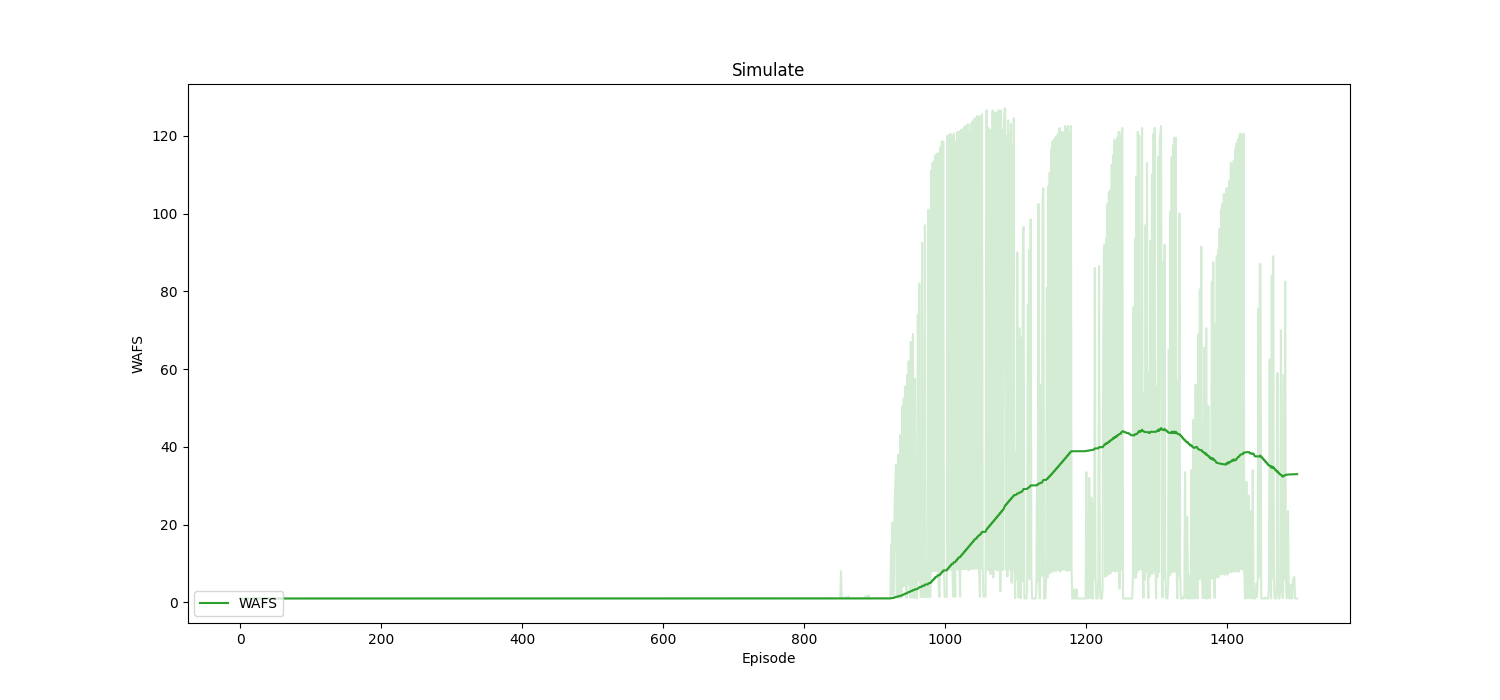
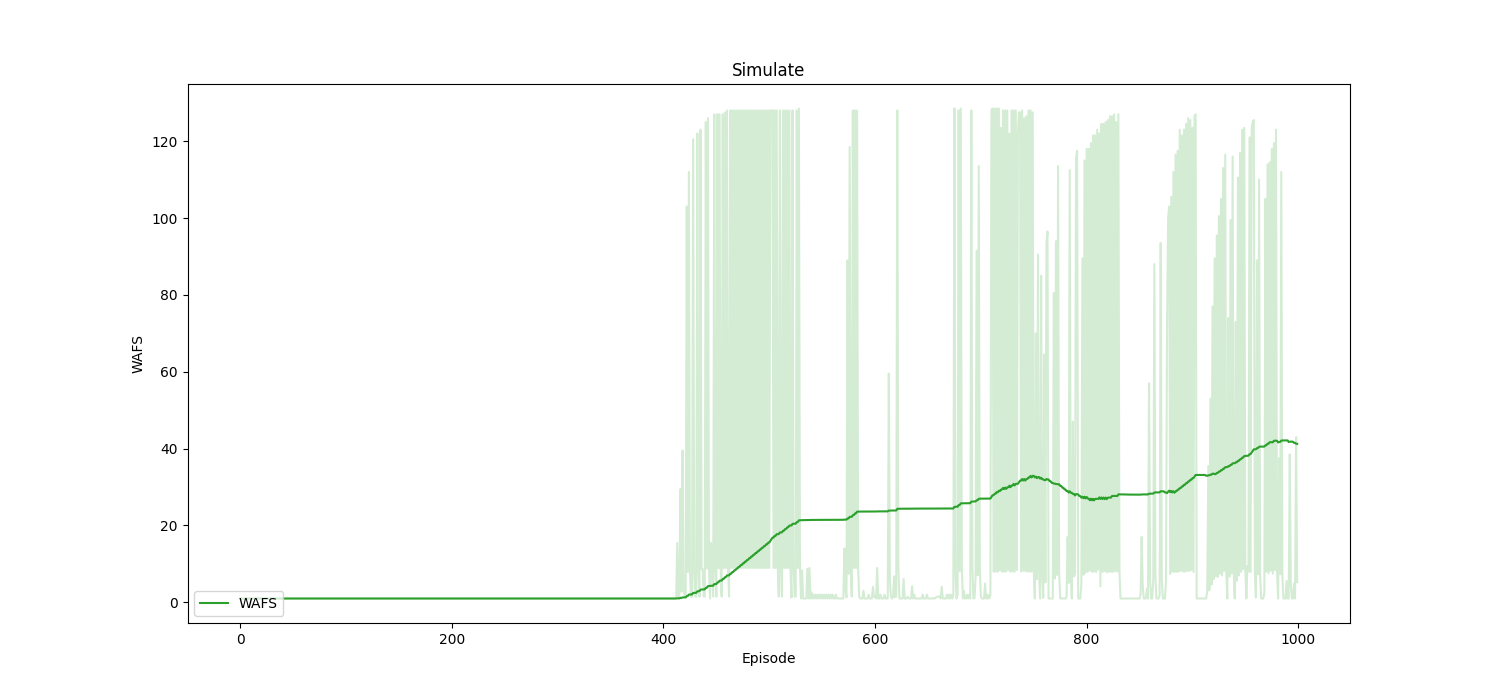
bad version: map table have error so cause override on the invalid page because it still think it is valid in maping table

diff --git a/ftl/gc/garbage_collection.py b/ftl/gc/garbage_collection.py
@@ -1,4 +1,5 @@
 from ..physical.nand_controller import PageStatus
+import copy
 from dotenv import load_dotenv
 import os
 load_dotenv()
@@ -30,19 +31,16 @@ class GarbageCollection:
         # find the highest invalid num block to gc
         blockIdx = self._nandController.GetHighestInvalidsBlockIdx()
         blockType = self._nandController._blocks[blockIdx]._type
-        reverseMap = self._addressTranslation.GetTempReverseMap()
-        # get all valid page (future all valid lba) in blockIdx
+        reverseMap = self._addressTranslation._lb2pp._inverseMap
         pages = self._nandController._blocks[blockIdx]._pages
         logicalPages = []
         for page in pages: 
             if page._status == PageStatus.VALID:
-                logicalPage = reverseMap[page._pageAddress]
-                # program all page in to nandcontroller
+                logicalPage = sorted(copy.deepcopy(reverseMap[page._pageAddress]))
                 logicalPages.append(logicalPage)
         for page in logicalPages:
             programCount = len(page)
             physicalPageAddress, writeBytes = self._nandController.Program(programCount, blockType)
-            # update lba map inside page
             duplicate = self._addressTranslation.Update(page, physicalPageAddress)
             totalWriteBytes += writeBytes
         self._nandController.EraseBlock(blockIdx)

diff --git a/ftl/flash_translation.py b/ftl/flash_translation.py
@@ -18,14 +18,16 @@ class FlashTranslation:
         self._garbageCollection.SetAddressTranslation(self._addressTranslation)
     
     def GetBlockType(self):
-        return random.choice([BlockType.HOT, BlockType.COLD])
-
+        #return random.choice([BlockType.HOT, BlockType.COLD])
+        return BlockType.HOT
     # return actual write bytes
     def Write(self, request):
+        #print(request)
         totalWriteBytes = 0
         self._dataCacheManage.WriteCache(request)
         while True:
             page = self._dataCacheManage.GetCache()
+        #    print(page)
             if not page: break 
             physicalPageAddress, writeBytes = self._nandController.Program(PHYSICAL_PAGE_SIZE_RATIO, self.GetBlockType())
             duplicateAddress = self._addressTranslation.Update(page, physicalPageAddress) 

diff --git a/ftl/address/map.py b/ftl/address/map.py
@@ -1,10 +1,23 @@
+from collections import defaultdict
+from dotenv import load_dotenv
+import os
+load_dotenv()
+
+PHYSICAL_PAGE_SIZE_RATIO = int(os.getenv('PHYSICAL_PAGE_SIZE_RATIO'))
+
 class LogicalBlock2PhysicalPage:
     def __init__(self):
+        #self._map = dict()
         self._map = dict()
-    
+        self._inverseMap = defaultdict(list)
+
     def Update(self, lba, physicalPageAddress):
+        # update logical to physical map
         original = self._map.get(lba)
         self._map[lba] = physicalPageAddress
+        if original != None:
+            self._inverseMap[original].remove(lba)
+        self._inverseMap[physicalPageAddress].append(lba)
         return original
 
     def GetTempReverseMap(self):

diff --git a/main.py b/main.py
@@ -12,9 +12,10 @@ def main():
     history = WAFHistory()
     for i in tqdm(range(TRACE_LENGTH)):
         request, writeBytes = hostInterface.Step()
+        #print(hostInterface._flashTranslation._nandController._blocks)
+        #print(hostInterface._flashTranslation._addressTranslation._lb2pp._map)
+        #print(hostInterface._flashTranslation._addressTranslation._lb2pp._inverseMap)
         history.AddHistory(i, writeBytes / request.bytes)
-    print(hostInterface._flashTranslation._nandController._blocks)
-    print(f'GC Count: {hostInterface._flashTranslation._garbageCollection._count}')
     history.ShowHistory('test.png')
     
 

diff --git a/ftl/address/address_translation.py b/ftl/address/address_translation.py
@@ -6,9 +6,11 @@ class AddressTranslation:
         
     def Update(self, page, physicalPageAddress):
         duplicateAddress = []
-        for lba in page:
+        for i in range(len(page)):
+            lba = page[i]
             original = self._lb2pp.Update(lba, physicalPageAddress)
-            if original != None: duplicateAddress.append(original)
+            if original != None: 
+                duplicateAddress.append(original)
         return duplicateAddress
     
     def GetTempReverseMap(self):

diff --git a/ftl/physical/nand_controller.py b/ftl/physical/nand_controller.py
@@ -105,8 +105,10 @@ class NandController:
         self._currentHotBlockIndex = None 
         self._currentColdBlockIndex = None 
         self.InitializeBlocks()
-    
+        
     def EraseBlock(self, blockIdx):
+        # 要把所有只到block裡page的map刪掉
+        
         # RemoveFromFreeBlockIfAlreadyFree
         if not self._blocks[blockIdx].IsFull():
             self._freeBlockIndexes.remove(blockIdx)
